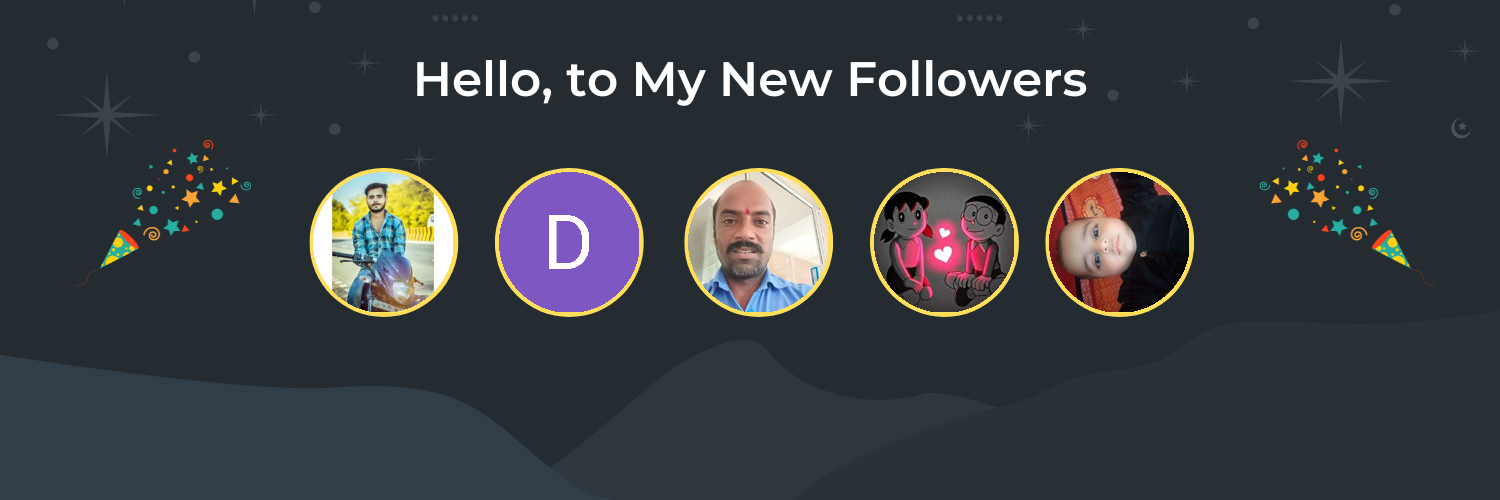
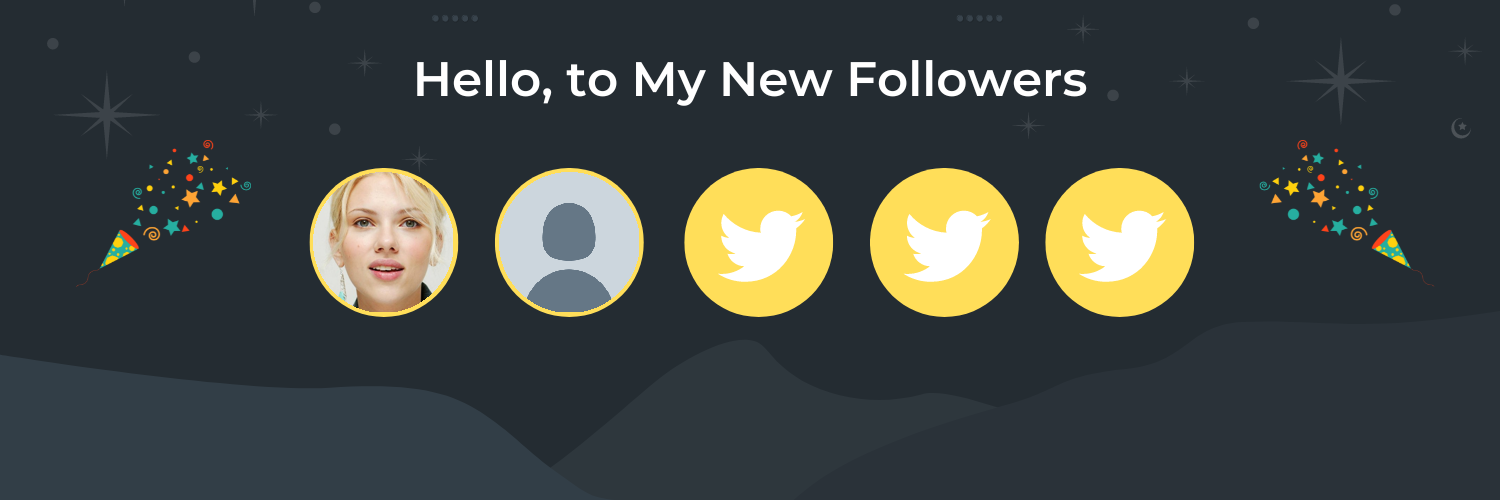
Added Code for Updating Header Image

Changed region(s): [[0.184, 0.33, 0.4293, 0.63], [0.5827, 0.33, 0.7973, 0.63], [0.46, 0.33, 0.552, 0.63]]

diff --git a/extract_pics.py b/extract_pics.py
@@ -8,6 +8,9 @@ from dotenv import load_dotenv
 # Loading Environment variables
 load_dotenv()
 
+# Constants
+USERNAME = "vasteaditya"
+
 # Scraping Limit (in Seconds)
 CURR_SCRAPE_LIMIT = 60
 HIGH_SCRAPE_LIMIT = 120
@@ -33,6 +36,7 @@ try:
 except:
     print("[ TWITTER ] : Authentication Unsuccessfull due to Invalid Credential Details ! ")
 
+
 #------------------------ F U N C T I O N S ----------------------------
 
 # Make a copy of the default profile picture
@@ -46,8 +50,11 @@ def makeCopyOfFile(original,target):
 # Delete Extracted Profile Pictures
 def deleteProfilePictures():
     for i in range(5):
-        os.remove(f"{i+1}.png")
-
+        try:
+            os.remove(f"./images/{i+1}.png")
+        except:
+            pass
+    print("[ TWITTER ] : Deleted the Provisional Profile Pictures ")
 
 # Extracting Profile Pictures from Twitter 
 def extractProfilePictures(username=None):
@@ -116,21 +123,37 @@ def createHeaderImage():
             img = Image.open(f"./images/{i}.png").resize((140,140))
             profile_images.append(img)
         except:
-            print(f"[ PILLOW  ] : Error While Loading the Profile Pic {i}")
+            print(f"[ PILLOW  ] : No file found for the Profile Pic {i}")
 
     print("[ PILLOW  ] : Resizing of Profile Pictures Done Properly.")
 
-    header.paste(profile_images[0],(313,172),createMask(profile_images[0]))
-    header.paste(profile_images[1],(499,172),createMask(profile_images[1]))
-    header.paste(profile_images[2],(688,172),createMask(profile_images[2]))
-    header.paste(profile_images[3],(874,172),createMask(profile_images[3]))
-    header.paste(profile_images[4],(1049,172),createMask(profile_images[4]))
+    try:
+        header.paste(profile_images[0],(313,172),createMask(profile_images[0]))
+        header.paste(profile_images[1],(499,172),createMask(profile_images[1]))
+        header.paste(profile_images[2],(688,172),createMask(profile_images[2]))
+        header.paste(profile_images[3],(874,172),createMask(profile_images[3]))
+        header.paste(profile_images[4],(1049,172),createMask(profile_images[4]))
+    except:
+        print("[ PILLOW  ] : Header Image Created with limited Profile pics")
     header.save('./images/header.png', quality=100)
     print("[ PILLOW  ] : Your Header Saved as 'header.png' in 'images' Directory Successfully !!")
 
+
+# Updating the twitter header
+def updateTwitterHeader():
+    try:
+        filename = "./images/header.png"
+        api.update_profile_banner(filename)
+        print("[ TWITTER ] : Updated Twitter Header Successfully")
+    except:
+        print("[ TWITTER ] : Problem While Updating Header Image")
+
+
 while True:
-    if extractProfilePictures():
+    deleteProfilePictures()
+    if extractProfilePictures(USERNAME):
         createHeaderImage()
+        updateTwitterHeader()
         SCRAPE_LIMIT = CURR_SCRAPE_LIMIT
     print(f"[  SLEEP  ] : Time Sleep of {SCRAPE_LIMIT} Seconds")
     time.sleep(SCRAPE_LIMIT)
